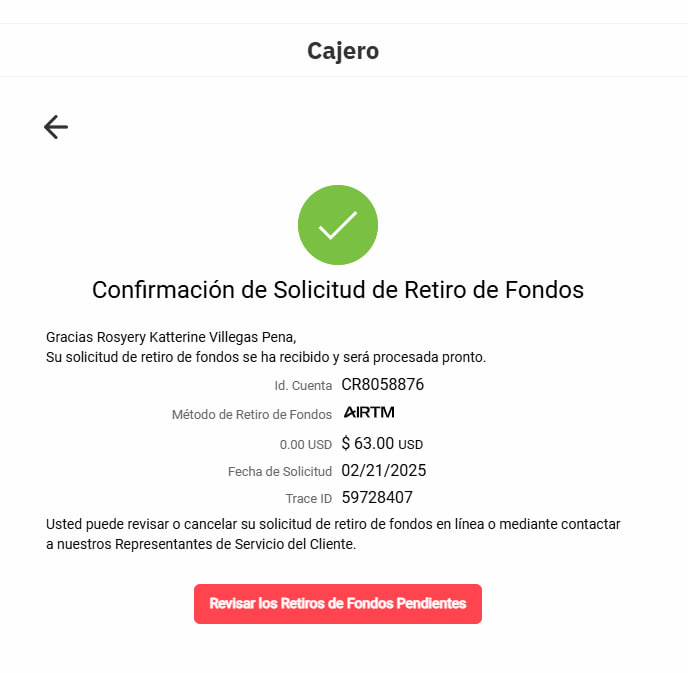
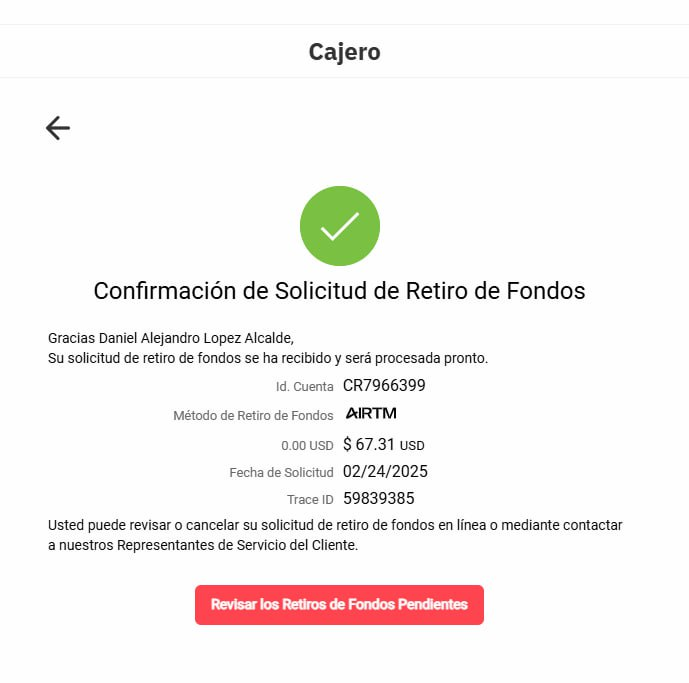
Add files via upload

diff --git a/index.html b/index.html
@@ -394,14 +394,14 @@
                 </div>
                 <div class="investor-card">
                     <div class="investor-avatar trader2"></div>
-                    <h3>MIRIAM OJEDA</h3>
+                    <h3>JOYCE BOLIVAR</h3>
                     <p>ROI Promedio: 18% mensual</p>
                     <p>Especialidad: Índices sintéticos</p>
                     <br>
                     <p style="color: blue;">Ver sus cuentas reales auditadas en myfxbook:</p>
                     <a href="https://www.myfxbook.com/"  target="_blank" rel="noopener noreferrer">CLICK AQUI PARA VER</a>
-                    <p>Usuario: miriamalejandrinao@gmail.com</p>
-                    <p>Contraseña: Copy2024.</p>
+                    <p>Usuario:joycebolivar04@gmail.com</p>
+                    <p>Contraseña:Copy2024.</p>
                 </div>
                 
                 <div class="investor-card">
@@ -417,7 +417,7 @@
                 </div>
                 <div class="investor-card">
                     <div class="investor-avatar trader5"></div>
-                    <h3>Pedro Rodriguez</h3>
+                    <h3>PEDRO RODRIGUEZ</h3>
                     <p>ROI Promedio: 28% mensual</p>
                     <p>Especialidad: Índices sintéticos</p>
                     <br>
@@ -429,14 +429,41 @@
                
                 <div class="investor-card">
                     <div class="investor-avatar trader7"></div>
-                    <h3>Luis Villegas</h3>
+                    <h3>LUIS VILLEGAS</h3>
                     <p>ROI Promedio: 19% mensual</p>
                     <p>Especialidad: Índices sintéticos</p>
                     <br>
                     <p style="color: blue;">Ver sus cuentas reales auditadas en myfxbook:</p>
                     <a href="https://www.myfxbook.com/"  target="_blank" rel="noopener noreferrer">CLICK AQUI PARA VER</a>
-                    <p>usuario:---------</p>
-                    <p>contraseña:--------</p>
+                    <p>usuario:agrocervi13@gmail.com</p>
+                    <p>contraseña:Copy2024.</p>
+                </div>
+
+
+                 <!-- ------------------------------------------------------ -->
+
+                <div class="investor-card">
+                    <div class="investor-avatar trader8"></div>
+                    <h3>DANIEL LÓPEZ</h3>
+                    <p>ROI Promedio: 19% mensual</p>
+                    <p>Especialidad: Índices sintéticos</p>
+                    <br>
+                    <p style="color: blue;">Ver sus cuentas reales auditadas en myfxbook:</p>
+                    <a href="https://www.myfxbook.com/"  target="_blank" rel="noopener noreferrer">CLICK AQUI PARA VER</a>
+                    <p>usuario:alopezdaniel24@gmail.com</p>
+                    <p>contraseña:Copy2024.</p>
+                </div>
+
+                <div class="investor-card">
+                    <div class="investor-avatar trader9"></div>
+                    <h3>SANDER LÓPEZ</h3>
+                    <p>ROI Promedio: 19% mensual</p>
+                    <p>Especialidad: Índices sintéticos</p>
+                    <br>
+                    <p style="color: blue;">Ver sus cuentas reales auditadas en myfxbook:</p>
+                    <a href="https://www.myfxbook.com/"  target="_blank" rel="noopener noreferrer">CLICK AQUI PARA VER</a>
+                    <p>usuario:sandersunsol@gmail.com</p>
+                    <p>contraseña:Copy2024.</p>
                 </div>
             </div>
         </div>
@@ -464,8 +491,8 @@
         <!-- Captura de Retiro 1 -->
         <div class="withdraw-item">
             <div class="investor-info">
-                <img src="perfiles/inversores/223.png" alt="Perfil Inversor 1" class="investor-profile">
-                <span class="investor-name">Inversor 1</span>
+                <img src="perfiles/inversores/img3.jpg" alt="Perfil Inversor 1" class="investor-profile">
+                <span class="investor-name">Arley Dos Santos</span>
             </div>
             <img src="img/retiros/retiro_1.jpg" alt="Retiro Ejemplo 1" height="350px" width="350px">
             <p>Retiro de $82.00 realizado el 20/02/2025.</p>
@@ -474,19 +501,19 @@
         <!-- Captura de Retiro 2 -->
         <div class="withdraw-item">
             <div class="investor-info">
-                <img src="perfiles/inversores/223.png" alt="Perfil Inversor 1" class="investor-profile">
-                <span class="investor-name">Inversor 1</span>
+                <img src="perfiles/inversores/img8.jpg" alt="Perfil Inversor 1" class="investor-profile">
+                <span class="investor-name">Joyce Bolivar</span>
             </div>
             <img src="img/retiros/retiro_2.jpg" alt="Retiro Ejemplo 2" height="350px" width="350px">
-            <p>Retiro de $66.33 realizado  el 22/02/2025.</p>
+            <p>Retiro de $47.50 realizado  el 23/02/2025.</p>
         </div>
     
 
         <!-- Captura de Retiro 3 -->
         <div class="withdraw-item">
             <div class="investor-info">
-                <img src="perfiles/inversores/223.png" alt="Perfil Inversor 1" class="investor-profile">
-                <span class="investor-name">Inversor 1</span>
+                <img src="perfiles/inversores/img1.jpg" alt="Perfil Inversor 1" class="investor-profile">
+                <span class="investor-name">Aura Ojeda</span>
             </div>
             <img src="img/retiros/retiro_3.jpg" alt="Retiro Ejemplo 3" height="350px" width="350px">
             <p>Retiro de $66.34 realizado  el 22/02/2025.</p>
@@ -495,8 +522,8 @@
             <!-- Captura de Retiro 4 -->
             <div class="withdraw-item">
                 <div class="investor-info">
-                    <img src="perfiles/inversores/223.png" alt="Perfil Inversor 1" class="investor-profile">
-                    <span class="investor-name">Inversor 1</span>
+                    <img src="perfiles/inversores/img4.jpg" alt="Perfil Inversor 1" class="investor-profile">
+                    <span class="investor-name">Pedro Rodriguez</span>
                 </div>
                 <img src="img/retiros/retiro_4.jpg" alt="Retiro Ejemplo 2" height="350px" width="350px">
                 <p>Retiro de $199.00 realizado  el 16/02/2025.</p>
@@ -505,8 +532,8 @@
               <!-- Captura de Retiro 5 -->
               <div class="withdraw-item">
                 <div class="investor-info">
-                    <img src="perfiles/inversores/223.png" alt="Perfil Inversor 1" class="investor-profile">
-                    <span class="investor-name">Inversor 1</span>
+                    <img src="perfiles/inversores/img5.jpg" alt="Perfil Inversor 1" class="investor-profile">
+                    <span class="investor-name">luis villegas</span>
                 </div>
                 <img src="img/retiros/retiro_5.jpg" alt="Retiro Ejemplo 2" height="350px" width="350px">
                 <p>Retiro de $62.00 realizado  el 21/02/2025.</p>
@@ -515,22 +542,22 @@
               <!-- Captura de Retiro 6 -->
               <div class="withdraw-item">
                 <div class="investor-info">
-                    <img src="perfiles/inversores/223.png" alt="Perfil Inversor 1" class="investor-profile">
-                    <span class="investor-name">Inversor 1</span>
+                    <img src="perfiles/inversores/img6.jpg" alt="Perfil Inversor 1" class="investor-profile">
+                    <span class="investor-name">Daniel López</span>
                 </div>
                 <img src="img/retiros/retiro_6.jpg" alt="Retiro Ejemplo 2" height="350px" width="350px">
-                <p>Retiro de $63.00 realizado  el 21/02/2025.</p>
+                <p>Retiro de $67.31 realizado  el 24/02/2025.</p>
             </div>
 
             
           <!-- Captura de Retiro 7 -->
           <div class="withdraw-item">
             <div class="investor-info">
-                <img src="perfiles/inversores/223.png" alt="Perfil Inversor 1" class="investor-profile">
-                <span class="investor-name">Inversor 1</span>
+                <img src="perfiles/inversores/img7.jpg" alt="Perfil Inversor 1" class="investor-profile">
+                <span class="investor-name">Sander López</span>
             </div>
             <img src="img/retiros/retiro_7.jpg" alt="Retiro Ejemplo 2" height="350px" width="350px">
-            <p>Retiro de $62.00 realizado  el 21/02/2025.</p>
+            <p>Retiro de $31.85 realizado  el 25/02/2025.</p>
         </div>
     </div>
 </section>
@@ -709,7 +736,7 @@
             
             <div class="social-buttons">
               
-                <!-- <div class="metodop">
+                <div class="metodop">
                     <img src="logos/binance.svg" height="40px" />
                     <span class="metodotitulo">Binance Pay</span>
                     <img class="qr" src="img/QR/binance_qr.jpg"  height="100px"/>
@@ -719,7 +746,7 @@
                     <img src="logos/airtm.svg" height="40px" />
                     <span class="metodotitulo_airtm">Pagos AIRTM</span>
                     <img class="qr_airtm" src="img/QR/airtm_qr.jpg"  height="100px"/>
-                </div>   -->
+                </div>   
 
                 <a href="https://t.me/PlataFijaInternacional" class="social-button telegram"  target="_blank" rel="noopener noreferrer">
                     <img src="logos/telegram.svg" alt="Telegram">

diff --git a/styles.css b/styles.css
@@ -656,12 +656,10 @@ footer {
 }
 
 .investor-avatar.trader2 {
-    background-image: url('perfiles/inversores/img2.jpg');
+    background-image: url('perfiles/inversores/img8.jpg');
 }
 
-.investor-avatar.trader3 {
-    background-image: url('');
-}
+
 
 .investor-avatar.trader4 {
     background-image: url('perfiles/inversores/img3.jpg');
@@ -671,12 +669,18 @@ footer {
     background-image: url('perfiles/inversores/img4.jpg');
 }
 
-.investor-avatar.trader6 {
-    background-image: url('');
-}
+
 
 .investor-avatar.trader7 {
     background-image: url('perfiles/inversores/img5.jpg');
+}
+
+.investor-avatar.trader8 {
+    background-image: url('perfiles/inversores/img6.jpg');
+}
+
+.investor-avatar.trader9 {
+    background-image: url('perfiles/inversores/img7.jpg');
 }
 
 
@@ -1075,12 +1079,7 @@ font-size:10px;
     }
 
     .metodop_airtm {
-        display: flex;
-        position: absolute;
-        margin: 0;
-       left: 0;
-       padding-left: 200px;
-       padding-top:150px;
+        display: none;
        
       }
         .qr{
@@ -1094,12 +1093,7 @@ font-size:10px;
     }
 
     .metodop{
-        display: flex;
-        position: absolute;
-        margin: 0;
-       left: 0;
-       padding-left: 40px;
-       padding-top:150px;
+        display: none;
        
       }
 }
